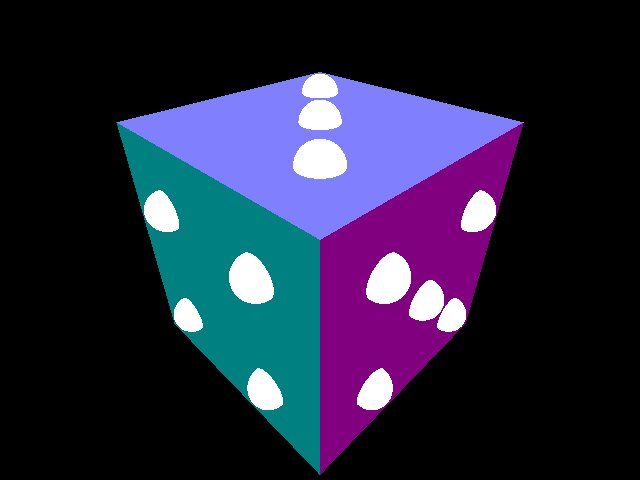
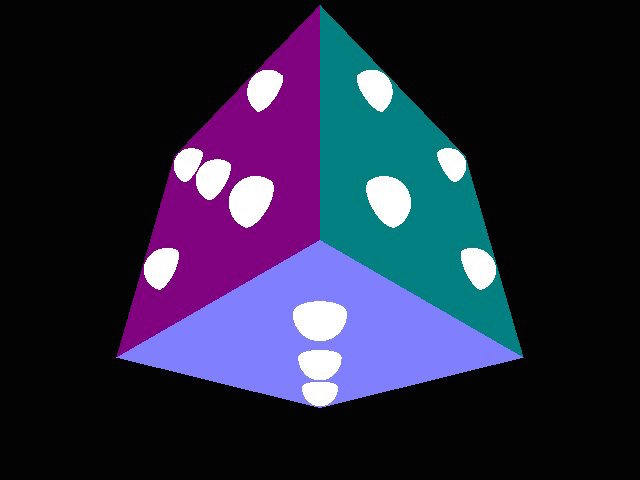
progress

diff --git a/scene.cpp b/scene.cpp
@@ -39,7 +39,8 @@ void Scene::Raytrace(Camera cam, int width, int height, int * filmPixel) {
 // Output: Returns the ray from the camera that goes through a certain pixel
 Scene::Ray Scene::RayThruPixel(Camera cam, int height, int width) {
 	// Compute u v & w
-	vec3 wVec = glm::normalize(cam.eye);
+	// vec3 wVec = glm::normalize(cam.eye);
+	vec3 wVec = glm::normalize(cam.eye - cam.center);
 	vec3 bxw = glm::cross(cam.up, wVec);
 	vec3 uVec = glm::normalize(bxw);
 	vec3 vVec = glm::cross(wVec, uVec);
@@ -81,27 +82,42 @@ Scene::Intersection Scene::Intersect(Ray ray) {
 
 		// Grab the radius and compute center of the sphere
 		float radius = sp->radius;
-		vec3 center = vec3(sp->x, sp->y, sp->z);
+		vec3 spcenter = vec3(sp->x, sp->y, sp->z);
 		float t; 
 
 		// Check discriminant to see if there is an intersection
-		float discriminant, discriminant_pt1, discriminant_pt2;
-		float r_sq = radius * radius;
-		discriminant_pt1 = dot(dirn, (origin - center)) * dot(dirn, (origin - center));
-		discriminant_pt2 = dot((dirn - center), (origin - center)) - r_sq;
-		discriminant = discriminant_pt1 - discriminant_pt2;
+		// float discriminant, discriminant_pt1, discriminant_pt2;
+		// float r_sq = radius * radius;
+		// discriminant_pt1 = dot(dirn, (origin - center)) * dot(dirn, (origin - center));
+		// discriminant_pt2 = dot((dirn - center), (origin - center)) - r_sq;
+		// discriminant = discriminant_pt1 - discriminant_pt2;
 
-		// Check if discriminant is < 0, No intersection
+		// // Check if discriminant is < 0, No intersection
+		// if (discriminant < 0) {
+		// 	continue;
+		// }
+		
+		// // Calculate roots
+		// float root1 = dot(-dirn, (origin - center)) + sqrt(discriminant);
+		// float root2 = dot(-dirn, (origin - center)) - sqrt(discriminant);
+
+		float r_sq = radius * radius;
+		vec3 Z = origin - spcenter;
+		float disc_pt1 = 2 * (dot(dirn, Z));
+		float discriminant_pt1 = disc_pt1 * disc_pt1;
+		float discriminant_pt2 = 4 * dot(dirn, dirn) * (dot(Z, Z) - r_sq);
+		float discriminant = discriminant_pt1 - discriminant_pt2;
+
 		if (discriminant < 0) {
 			continue;
 		}
-		
-		// Calculate roots
-		float root1 = dot(-dirn, (origin - center)) + sqrt(discriminant);
-		float root2 = dot(-dirn, (origin - center)) - sqrt(discriminant);
+
+		float root1 = (-2 * dot(dirn, Z) + sqrt(discriminant)) / (2 * dot(dirn, dirn));
+		float root2 = (-2 * dot(dirn, Z) - sqrt(discriminant)) / (2 * dot(dirn, dirn));
+
 
 		// Check for 2 positive roots - pick smaller
-		if ((root1 > 0) && (root2 >0)) {
+		if ((root1 > 0) && (root2 > 0)) {
 			if (root1 > root2)
 				t = root2;
 			else
@@ -113,10 +129,12 @@ Scene::Intersection Scene::Intersect(Ray ray) {
 		}
 		// One positive and one negative - pick pos root
 		else {
-			if (root1 > 0)
-				t = root1;
-			else
-				t = root2;
+			// if (root1 > 0)
+			if ((root1 * root2) < 0) {
+				if (root1 > 0)
+					t = root1;
+				else
+					t = root2;
 		}
 
 		// Check if t is smaller than min t
@@ -126,12 +144,13 @@ Scene::Intersection Scene::Intersect(Ray ray) {
 		// Compute intersection point & normal
 		minT = t;
 		vec3 intersectPos = origin + (dirn * t);
-		vec3 normal = (intersectPos - center) / abs(intersectPos - center);
+		vec3 normal = (intersectPos - center) / length(intersectPos - center);
 
 		// DONT FORGET ABOUT MATERIAL!!!!
 		retIntersect.position = intersectPos;
 		retIntersect.normal = normal;
 		retIntersect.distance = t;
+			}
 	}
 
 	/* For each triangle, find intersection */
@@ -164,35 +183,39 @@ Scene::Intersection Scene::Intersect(Ray ray) {
 		// Check that it actually intersects triangle
 		float alpha;
 		float beta;
+		float gamma;
 		float _t;
 
-		// vec3 l_side = origin - B;
-		// vec3 pt1 = -dirn;
-		// vec3 pt2 = A - C;
-		// vec3 pt3 = B - C;
+		vec3 l_side = origin - C;
+		vec3 pt1 = -dirn;
+		vec3 pt2 = A - C;
+		vec3 pt3 = B - C;
 
-		// mat3 r_side = mat3(pt1[0], pt1[1], pt1[2],
-		// 				 		pt2[0], pt2[1], pt2[2],
-		// 				 		pt3[0], pt3[1], pt3[2]);
+		mat3 r_side = mat3(pt1[0], pt1[1], pt1[2],
+						 					 pt2[0], pt2[1], pt2[2],
+						 					 pt3[0], pt3[1], pt3[2]);
+		r_side = glm::inverse(glm::transpose(r_side));
 
-		// vec3 t_alpha_beta = l_side * r_side;
-		// _t = t_alpha_beta[0];
-		// alpha = t_alpha_beta[1];
-		// beta = t_alpha_beta[2];
+		vec3 t_alpha_beta = l_side * r_side;
+		_t = t_alpha_beta[0];
+		alpha = t_alpha_beta[1];
+		beta = t_alpha_beta[2];
+		gamma = 1.0 - alpha - beta;
+		// P = alpha * A + beta * B + gamma * C;
 
-		alpha = ((0.5*length(cross(B-P, C-P))) / (0.5*length(cross(B-A, C-A))));
-		beta = ((0.5*length(cross(A-P, C-P))) / (0.5*length(cross(B-A, C-A))));
+		// alpha = ((0.5*length(cross(B-P, C-P))) / (0.5*length(cross(B-A, C-A))));
+		// beta = ((0.5*length(cross(A-P, C-P))) / (0.5*length(cross(B-A, C-A))));
 
 		// Do checks to see if triangle intersected 
 		float epsilon = 0.0001;
 
 		// Should I check t and _t?
 
-		if (t < epsilon)
+		if (_t < epsilon)
 			continue;					// No intersection 
 
-		if (((alpha < 0) || (alpha > 1)) || ((beta < 0) || (beta > 1))){ //|| 
-				//			((1-alpha-beta) > 1) || (1-alpha-beta < 0) ) {
+		if (((alpha < 0) || (alpha > 1)) || ((beta < 0) || (beta > 1)) || 
+							(gamma > 1) || (gamma < 0) ) {
 			// std::cerr << "bug" << std::endl;
 			continue;					// No intersection
 		}
@@ -200,11 +223,11 @@ Scene::Intersection Scene::Intersect(Ray ray) {
 		// std::cerr << "lol";
 
 		// Check if t is smaller than min t
-		if (t > minT) 
+		if (_t > minT) 
 			continue;
 
 		// Compute intersection point & normal
-		minT = t;	
+		minT = _t;	
 
 		// DONT FORGET ABOUT MATERIAL!!!!
 		retIntersect.position = P;

diff --git a/main.cpp b/main.cpp
@@ -225,7 +225,7 @@ int main(int argc, char* argv[]) {
 		// pixelss[x*3+2] = 255;
   // }
   FIBITMAP *img = FreeImage_ConvertFromRawBits(pixelss, w, h, w * 3, 24, 
-                                               0xFF0000, 0x00FF00, 0x0000FF, false);
+                                               0xFF0000, 0x00FF00, 0x0000FF, true);
   if(FreeImage_Save(FIF_PNG, img, "testing.png", 0))
 	std::cout<<"\nImage saved successfully\n";    
 
